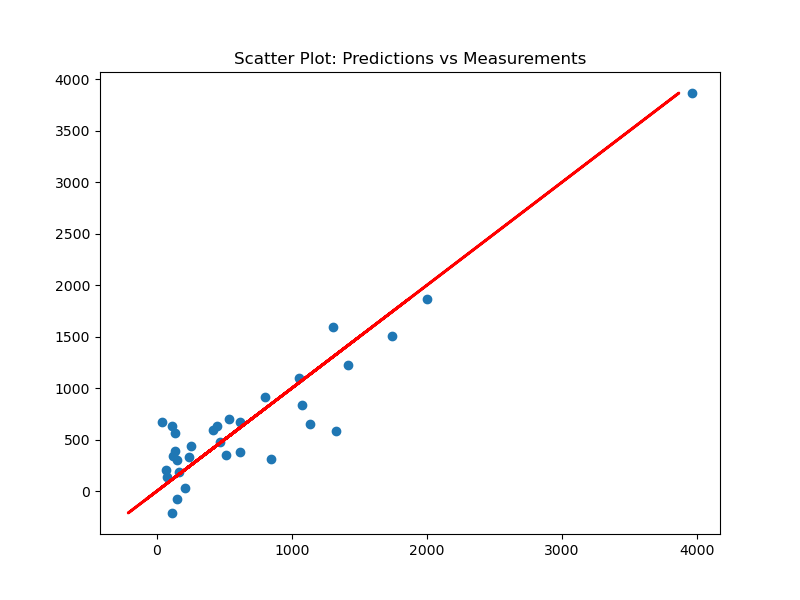
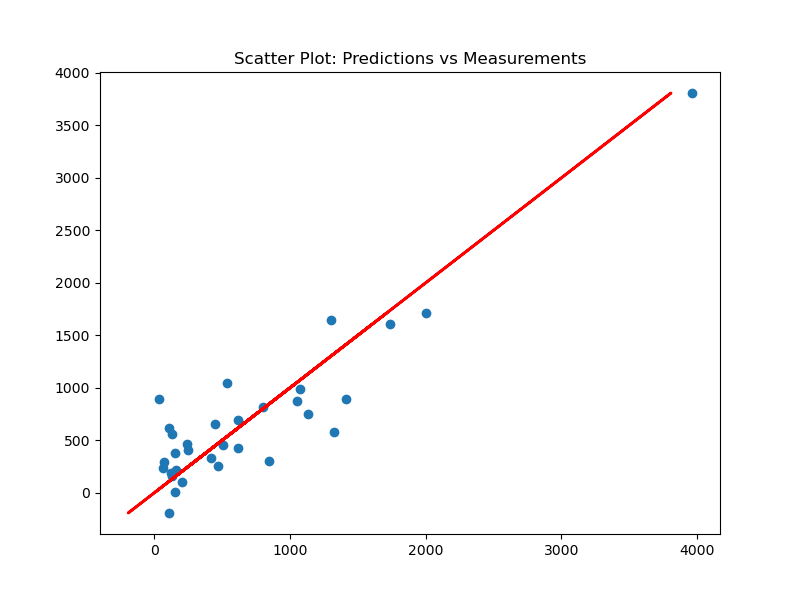
add the cross validation

diff --git a/ghislaine/mlr_ghislaine_cross_validation.py b/ghislaine/mlr_ghislaine_cross_validation.py
@@ -1,0 +1,322 @@
+
+import pandas as pd
+import numpy as np
+
+from sklearn.linear_model import LinearRegression
+from sklearn.model_selection import train_test_split
+from sklearn.metrics import mean_squared_error, mean_absolute_error, r2_score
+
+from sklearn.model_selection import KFold
+from sklearn.model_selection import RepeatedKFold
+from sklearn.model_selection import StratifiedKFold
+from sklearn.model_selection import LeaveOneOut
+from sklearn.model_selection import LeavePOut
+
+from sklearn.model_selection import cross_val_score
+
+import matplotlib.pyplot as plt
+
+# calculate performance values
+def calculate_performance(predictors, target_input, model_input):
+
+    predictions = model_input.predict(predictors)
+    
+    # - r squared and adj_r_squared
+    if len(target_input) > 1:
+        r_squared     = np.corrcoef(target_input, predictions)[0,1]**2.0
+        adj_r_squared = 1 - (1-r_squared)*(len(target_input)-1)/(len(target_input)-predictors.shape[1]-1)
+    else:
+        r_squared     = -9999
+        adj_r_squared = -9999
+    
+    # - rmse and mae
+    if len(target_input) > 1:
+        rmse        = (mean_squared_error(target_input, predictions))**0.5
+        mae         = mean_absolute_error(target_input, predictions)
+    else:
+        rmse = ((predictions - target_input)**2.0)**0.5
+        mae  = np.absolute(predictions - target_input)
+    
+    
+    # ~ print(rmse)
+    # ~ print(mae)
+    
+    # ~ print(predictions, target_input)
+    
+    return r_squared, adj_r_squared, rmse, mae 
+
+
+
+
+# read dataset
+dataset = pd.read_csv("example_uk.csv", encoding='ISO-8859-1', delimiter=',')
+print(dataset.to_string())
+# - replace 1.00E+31 with NaN
+dataset.replace(1.00E+31, np.nan, inplace=True)
+# - drop all rows with NaN
+dataset = dataset.dropna()
+# - reset index
+dataset = dataset.reset_index(drop = True)
+
+# define the target variable
+#~ target = dataset["Species normalized"].astype(float)
+target = dataset["Species"].astype(float)
+
+
+
+
+
+# define the predictors
+# - starting with an empty dataframe
+predictors = pd.DataFrame()
+# - using the following variables Area, Groundwater recharge,Groundwater depth,Evaporation,Discharge,Salinity,BOD,TP,NOXN,bod,ec
+predictors["Area"]                 = dataset["Area"]
+predictors["Groundwater recharge"] = dataset["Groundwater recharge"]
+predictors["Groundwater depth"]    = dataset["Groundwater depth"]
+predictors["Evaporation"]          = dataset["Evaporation"]
+predictors["Discharge"]            = dataset["Discharge"]
+predictors["Salinity"]             = dataset["Salinity"]
+predictors["BOD"]                  = dataset["BOD"]
+predictors["TP"]                   = dataset["TP"]
+predictors["NOXN"]                 = dataset["NOXN"]
+#~ predictors["bod"]                  = dataset["bod"]
+#~ predictors["ec"]                   = dataset["ec"]
+
+
+# fit the model using all data
+mlr_model = LinearRegression()
+mlr_model.fit(predictors,
+ target)
+
+
+# intercept and regression coefficients
+print("intercept and regression coefficients (using all data)")
+print(mlr_model.intercept_)
+print(mlr_model.coef_)
+
+# get the prediction values (fitted values)
+predictions = mlr_model.predict(predictors)
+
+# calculate also the prediction errors
+errors = predictions - target
+
+# store the prediction and error in a csv file
+predictions_and_errors = pd.DataFrame(\
+                             {
+                              'measurement'    : pd.Series(dtype='float'),
+                              'prediction'     : pd.Series(dtype='float'),
+                              'error'          : pd.Series(dtype='float')
+                              })
+for i_row in range(len(target)): 
+    predictions_and_errors.loc[i_row] = {
+                              'measurement'    : target[i_row],
+                              'prediction'     : predictions[i_row],
+                              'error'          : errors[i_row]
+                              }
+# write data frame to a csv file
+predictions_and_errors.to_csv("predictions_and_erros.csv", index = False)  
+
+# get performance values
+r_squared_all, adj_r_squared_all, rmse_all, mae_all = calculate_performance(predictors, target, mlr_model) 
+print("r_squared_all, adj_r_squared_all, rmse_all, mae_all")   
+print(r_squared_all, adj_r_squared_all, rmse_all, mae_all)   
+print("")
+
+
+# empty table/data frame for storing the the result from the model 
+result_df_empty = pd.DataFrame(\
+                             {
+                              'i'                   : pd.Series(dtype='int'),
+                              'intercept'           : pd.Series(dtype='float'),
+                              'reg_coef_1'          : pd.Series(dtype='float'),
+                              'reg_coef_2'          : pd.Series(dtype='float'),
+                              'reg_coef_3'          : pd.Series(dtype='float'),
+                              'reg_coef_4'          : pd.Series(dtype='float'),
+                              'reg_coef_5'          : pd.Series(dtype='float'),
+                              'reg_coef_6'          : pd.Series(dtype='float'),
+                              'reg_coef_7'          : pd.Series(dtype='float'),
+                              'reg_coef_8'          : pd.Series(dtype='float'),
+                              'reg_coef_9'          : pd.Series(dtype='float'),
+#~                               'reg_coef_10'         : pd.Series(dtype='float'),
+#~                               'reg_coef_11'         : pd.Series(dtype='float'),
+                              'r_squared_train'     : pd.Series(dtype='float'),
+                              'adj_r_squared_train' : pd.Series(dtype='float'),
+                              'rmse_train'          : pd.Series(dtype='float'),
+                              'mae_train'           : pd.Series(dtype='float'),
+                              'r_squared_test'      : pd.Series(dtype='float'),
+                              'adj_r_squared_test'  : pd.Series(dtype='float'),
+                              'rmse_test'           : pd.Series(dtype='float'),
+                              'mae_test'            : pd.Series(dtype='float'),
+                             })
+
+# result from the model fitted using all data
+result_df_all = result_df_empty
+new_row = None
+del new_row
+new_row = {
+            'i'                   : -1,
+            'intercept'           : mlr_model.intercept_,
+            'reg_coef_1'          : mlr_model.coef_[0],
+            'reg_coef_2'          : mlr_model.coef_[1],
+            'reg_coef_3'          : mlr_model.coef_[2],
+            'reg_coef_4'          : mlr_model.coef_[3],
+            'reg_coef_5'          : mlr_model.coef_[4],
+            'reg_coef_6'          : mlr_model.coef_[5],
+            'reg_coef_7'          : mlr_model.coef_[6],
+            'reg_coef_8'          : mlr_model.coef_[7],
+            'reg_coef_9'          : mlr_model.coef_[8],
+#~             'reg_coef_10'         : mlr_model.coef_[9],
+#~             'reg_coef_11'         : mlr_model.coef_[10],
+            'r_squared_train'     : r_squared_all,
+            'adj_r_squared_train' : adj_r_squared_all,
+            'rmse_train'          : rmse_all,
+            'mae_train'           : mae_all,
+            'r_squared_test'      : -9999,
+            'adj_r_squared_test'  : -9999,
+            'rmse_test'           : -9999,
+            'mae_test'            : -9999
+           }
+print(new_row)
+result_df_all.loc[len(result_df_all)] = new_row
+# write data frame to a csv file
+result_df_all.to_csv("cv_result_all_example_uk.csv"  , index = False)  
+
+                         
+                             
+# get the predicted value
+predictions = pd.DataFrame(mlr_model.predict(predictors))
+print(predictions)
+
+
+# create scatter plots between 'measurements (y)' and 'predicted values (x)'
+plt.figure(figsize=(8, 6))
+plt.scatter(x = target, y = predictions)
+plt.title('Scatter Plot: Predictions vs Measurements')
+
+# add the trendline to the plot
+model_linear_plot = LinearRegression()
+
+print(predictions)
+print(target)
+
+model_linear_plot.fit(predictions, target)
+plt.plot(predictions, model_linear_plot.predict(predictions), color='red', linewidth=2)
+plt.savefig('mlr_result.png')
+plt.show()
+
+
+
+# cross validation
+#
+# - using RepeatedKFold (see e.g. https://scikit-learn.org/stable/modules/generated/sklearn.model_selection.RepeatedKFold.html#sklearn.model_selection.RepeatedKFold)
+cross_validation_method = RepeatedKFold(n_splits = 5, n_repeats = 1, random_state = 20230823)
+
+
+# all predictor and target variables before splits
+predictors_all = predictors
+target_all     = target
+
+
+# make splits based on the chosen cross validation
+cross_validation_method.get_n_splits(predictors, target)
+
+
+# table/data frame for storing the cross validation result
+cross_val_df = pd.DataFrame(\
+                             {
+                              'i'                   : pd.Series(dtype='int'),
+                              'r_squared_train'     : pd.Series(dtype='float'),
+                              'adj_r_squared_train' : pd.Series(dtype='float'),
+                              'rmse_train'          : pd.Series(dtype='float'),
+                              'mae_train'           : pd.Series(dtype='float'),
+                              'r_squared_test'      : pd.Series(dtype='float'),
+                              'adj_r_squared_test'  : pd.Series(dtype='float'),
+                              'rmse_test'           : pd.Series(dtype='float'),
+                              'mae_test'            : pd.Series(dtype='float'),
+                             })
+
+# perform cross validation
+i = 0
+for train_index, test_index in cross_validation_method.split(predictors, target): 
+# ~ for fold, (train_index, test_index) in enumerate(cross_validation_method.split(predictors, target)):
+
+   i = i + 1
+   print(i)
+
+   # ~ print("TRAIN:", train_index, "TEST:", test_index)
+
+   # train dataset
+   predictors_train = None
+   predictors_train = pd.DataFrame()
+
+   predictors_train["Area"]                 = predictors_all["Area"][train_index]
+   predictors_train["Groundwater recharge"] = predictors_all["Groundwater recharge"][train_index]
+   predictors_train["Groundwater depth"]    = predictors_all["Groundwater depth"][train_index]
+   predictors_train["Evaporation"]          = predictors_all["Evaporation"][train_index]
+   predictors_train["Discharge"]            = predictors_all["Discharge"][train_index]
+   predictors_train["Salinity"]             = predictors_all["Salinity"][train_index]
+   predictors_train["BOD"]                  = predictors_all["BOD"][train_index]
+   predictors_train["TP"]                   = predictors_all["TP"][train_index]
+   predictors_train["NOXN"]                 = predictors_all["NOXN"][train_index]
+
+   target_train     = None
+   target_train                            = target_all[train_index]               
+   
+   # test dataset
+   predictors_test = None
+   predictors_test = pd.DataFrame()
+
+   predictors_test["Area"]                 = predictors_all["Area"][test_index]
+   predictors_test["Groundwater recharge"] = predictors_all["Groundwater recharge"][test_index]
+   predictors_test["Groundwater depth"]    = predictors_all["Groundwater depth"][test_index]
+   predictors_test["Evaporation"]          = predictors_all["Evaporation"][test_index]
+   predictors_test["Discharge"]            = predictors_all["Discharge"][test_index]
+   predictors_test["Salinity"]             = predictors_all["Salinity"][test_index]
+   predictors_test["BOD"]                  = predictors_all["BOD"][test_index]
+   predictors_test["TP"]                   = predictors_all["TP"][test_index]
+   predictors_test["NOXN"]                 = predictors_all["NOXN"][test_index]
+
+   target_test     = None
+   target_test                             = target_all[test_index]               
+
+   # fit the model using the train dataset
+   mlr_model_train = None
+   del mlr_model_train
+   mlr_model_train = LinearRegression()
+   mlr_model_train.fit(predictors_train, target_train)
+   intr_train = mlr_model_train.intercept_
+   coef_train = mlr_model_train.coef_
+   
+   print(intr_train)
+   print(coef_train)
+
+   # get the performance based on the train data
+   r_squared_train, adj_r_squared_train, rmse_train, mae_train = calculate_performance(predictors_train, target_train, mlr_model_train)
+   print(r_squared_train, adj_r_squared_train, rmse_train, mae_train)    
+
+   # get the performance based on the test data
+   r_squared_test, adj_r_squared_test, rmse_test, mae_test     = calculate_performance(predictors_test, target_test, mlr_model_train)    
+   print(r_squared_test, adj_r_squared_test, rmse_test, mae_test)    
+   
+   # add the result to the data frame
+   new_row = None
+   del new_row
+   new_row = {
+               'i'                   : i,
+               'r_squared_train'     : r_squared_train,
+               'adj_r_squared_train' : adj_r_squared_train,
+               'rmse_train'          : rmse_train,
+               'mae_train'           : mae_train,
+               'r_squared_test'      : r_squared_test,
+               'adj_r_squared_test'  : adj_r_squared_test,
+               'rmse_test'           : rmse_test,
+               'mae_test'            : mae_test
+              }
+   print(new_row)
+   cross_val_df.loc[len(cross_val_df)] = new_row                         
+                             
+   # ~ if i == 1: break
+
+# write data frame to a csv file
+cross_val_df.to_csv("cv_kfold.csv"  , index = False)  
+
